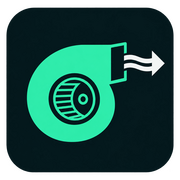
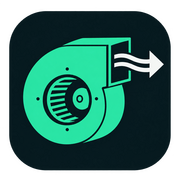
Vaihda PWA-kuvake lopullisesti vahvistettuun versioon

Changed region(s): [[0.1111, 0.1944, 0.8889, 0.8056], [0.0278, 0.0278, 0.9722, 0.9722], [0.8889, 0.3333, 0.9167, 0.3611]]

diff --git a/service-worker.js b/service-worker.js
@@ -1,4 +1,4 @@
-const CACHE_NAME="iv-mittaus-v13";
+const CACHE_NAME="iv-mittaus-v14";
 const APP_SHELL=["./","./manifest.webmanifest","./apple-touch-icon.png","./icon-192.png","./icon-512.png"];
 self.addEventListener("install",event=>{event.waitUntil(caches.open(CACHE_NAME).then(cache=>cache.addAll(APP_SHELL)).then(()=>self.skipWaiting()))});
 self.addEventListener("activate",event=>{event.waitUntil(caches.keys().then(keys=>Promise.all(keys.filter(key=>key!==CACHE_NAME).map(key=>caches.delete(key)))).then(()=>self.clients.claim()))});
